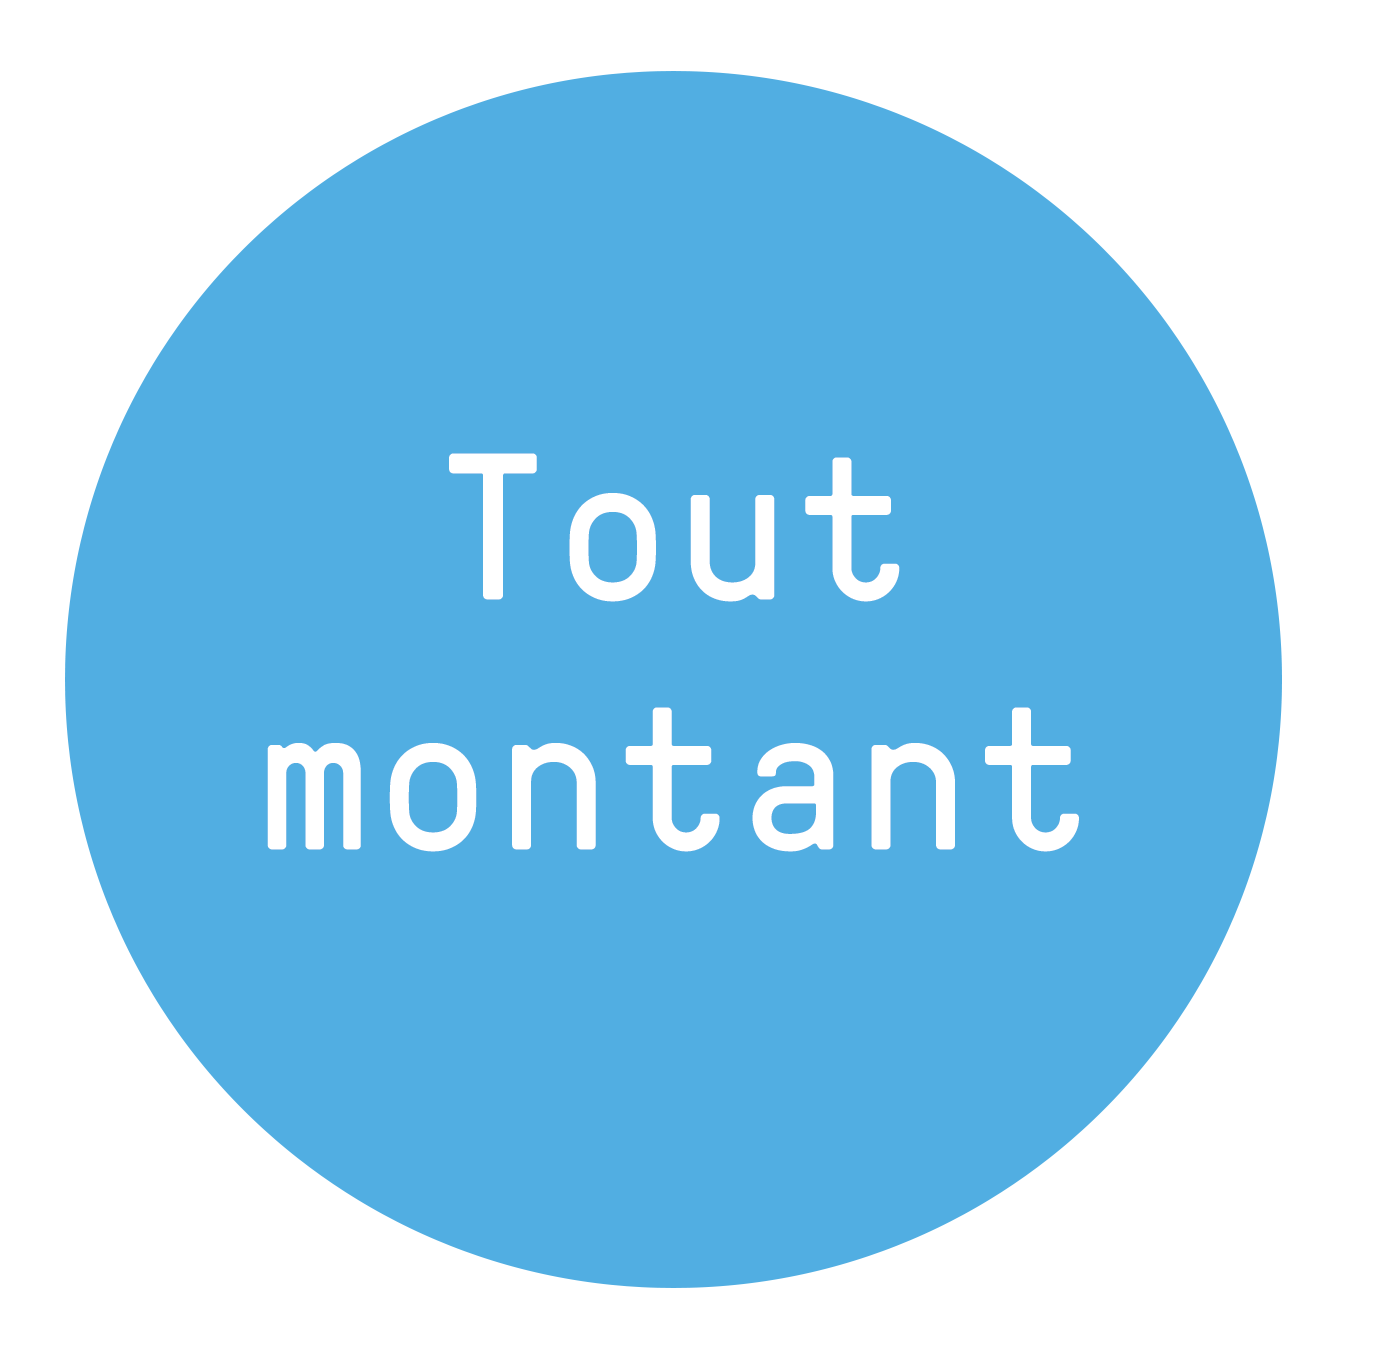
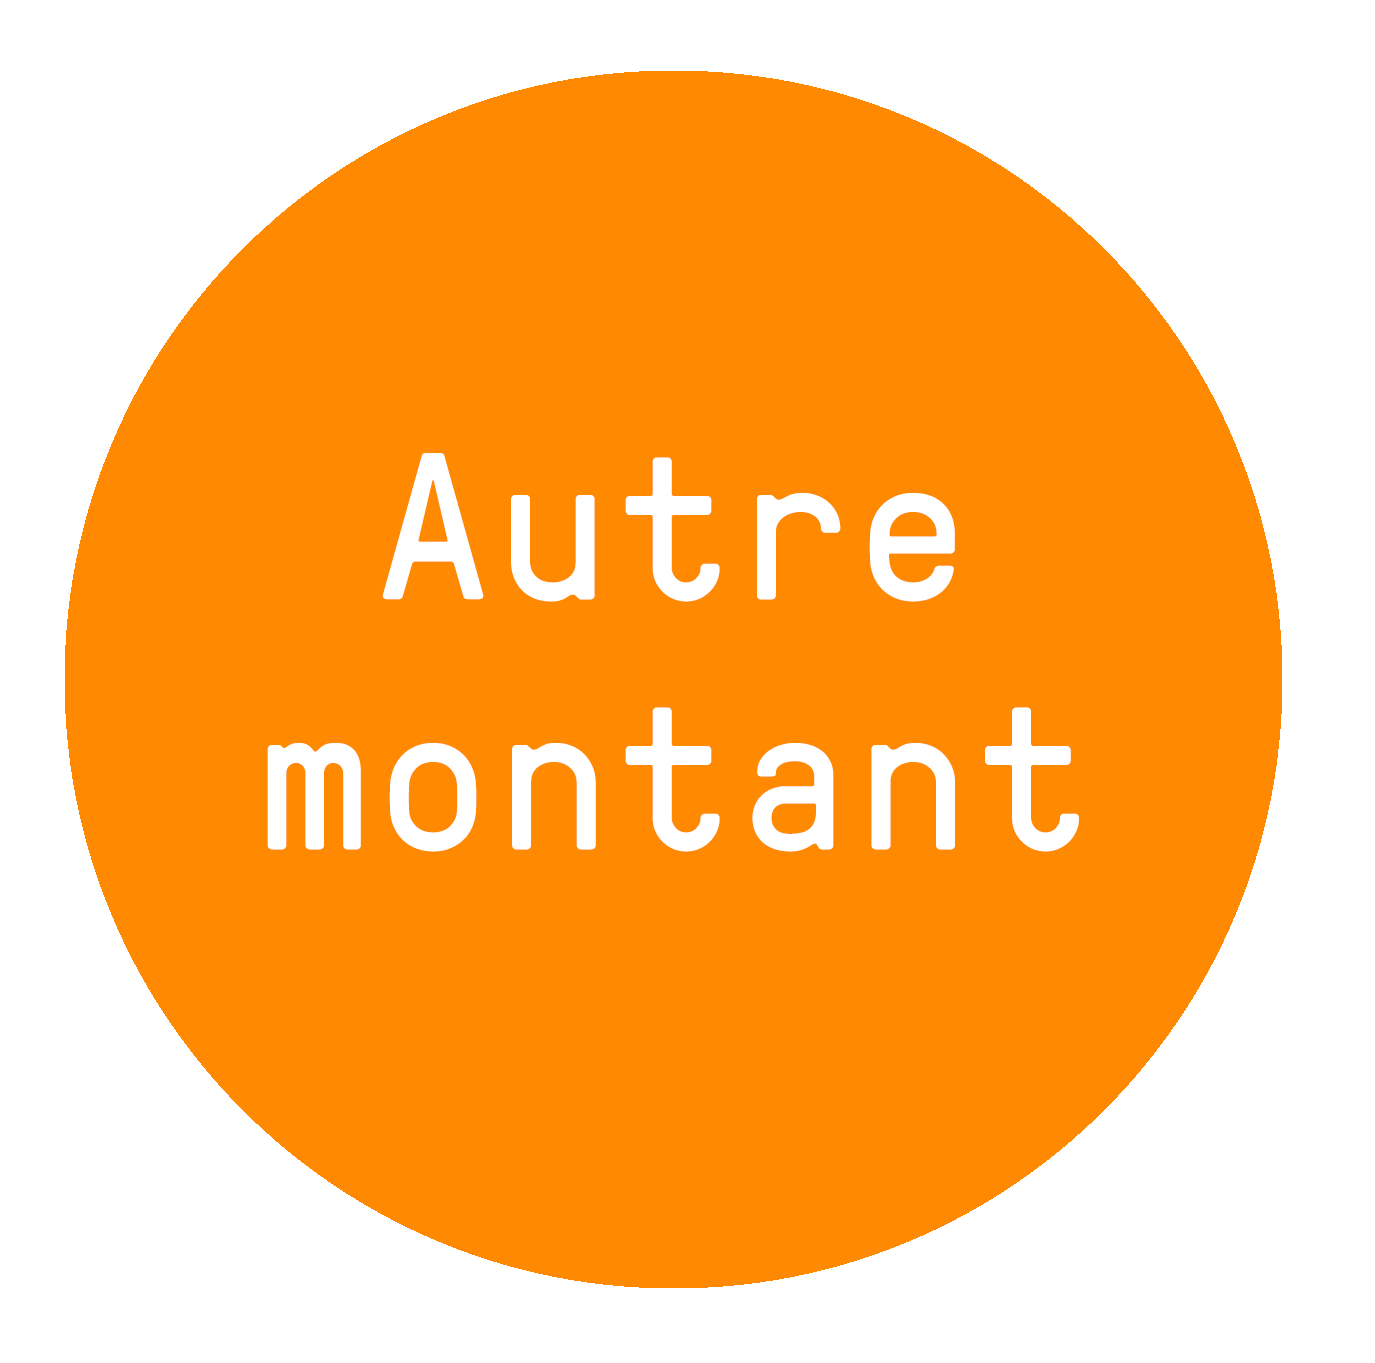
made changes to support and services

diff --git a/support.html b/support.html
@@ -88,7 +88,7 @@
         <div class="col-md-4 col-sm-4 text-center min-h-280">
           <img class="img-circle" src="img/Support-100-Student.gif" alt="suppport student 100" width="140" height="140">
           <p class="kcj-fund-custom-Support-text margin-auto">
-            GIVE ONE STUDENT 8 INSTRUCTOR-LED CODING LESSONS
+            Give one student 8 instructor-led coding lessons.
           </p>
           <form action="https://www.paypal.com/cgi-bin/webscr" method="post" target="_top" class="text-center pos-bottom">
             <input type="hidden" name="cmd" value="_s-xclick">
@@ -99,7 +99,7 @@
         <div class="col-md-4 col-sm-4 text-center min-h-280">
           <img class="img-circle" src="img/Support-250-Teacher.gif" alt="support teacher 700" width="140" height="140">
           <p class="kcj-fund-custom-Support-text margin-auto">
-            TRAIN A GROUP OF TEACHERS WITH A TEACHER TRAINING MODULE
+            Train a group of teachers with a teacher training module.
           </p>
           <form action="https://www.paypal.com/cgi-bin/webscr" method="post" target="_top" class="text-center pos-bottom">
             <input type="hidden" name="cmd" value="_s-xclick">
@@ -110,7 +110,7 @@
         <div class="col-md-4 col-sm-4 text-center min-h-280">
           <img class="img-circle" src="img/Support-2500-class.gif" alt="support class 2500" width="140" height="140">
           <p class="kcj-fund-custom-Support-text margin-auto">
-            GIVE 1-ON-1 TEACHER TRAINING AND GIVE A CLASS OF STUDENTS 8 CODING LESSONS
+            Give 1-on-1 teacher training and give a class of students 8 coding lessons.
           </p>
           <form action="https://www.paypal.com/cgi-bin/webscr" method="post" target="_top" class="text-center pos-bottom">
             <input type="hidden" name="cmd" value="_s-xclick">
@@ -120,15 +120,15 @@
         </div>
       </div>
       <div class="row">
-        <div class="col-md-4 col-sm-4 col-sm-offset-4 col-md-offset-4 text-center padding-y-m min-h-280">
-          <img class="img-circle" src="img/KCJ_Donate_Any_Amount.png" alt="suppport student 100" width="140" height="140">
-          <p class="kcj-fund-custom-Support-text margin-auto">
-            SUPPORT INSTRUCTORS IN ANY AMOUNT
+        <div class="col-md-4 col-sm-4 col-sm-offset-4 col-md-offset-4 text-center padding-top-l padding-y-m min-h-280">
+          <img class="img-circle" src="img/KCJ_Donate_Any_Amount_EN.png" alt="suppport student 100" width="140" height="140">
+          <p class="kcj-fund-custom-Support-text padding-bot-s margin-auto">
+            Choose an amount to donate
           </p>
           <form action="https://www.paypal.com/cgi-bin/webscr" method="post" target="_top">
             <input type="hidden" name="cmd" value="_s-xclick">
             <input type="hidden" name="hosted_button_id" value="7W6ARGX58VHNL">
-            <input type="submit" name="submit" class="btn btn-blue text-uppercase" value="Donate">
+            <input type="submit" name="submit" class="btn btn-orange-2 text-uppercase" value="Donate">
           </form>
         </div>
       </div>
@@ -138,7 +138,7 @@
   <section class="padding-bot-m">
     <div class="container">
       <h4 class="text-blue text-uppercase text-center">HELP A SCHOOL OR COMMUNITY CENTRE COVER THE COST FOR:</h4>
-      <ul class="text-capitalize padding-x-m text-blue padding-top-small margin-auto kcj-fund-custom-ul">
+      <ul class="padding-x-m text-blue padding-top-small padding-bot-m margin-auto kcj-fund-custom-ul">
         <li><span class="text-black">A KCJ Instructor to teach our 8 week curriculum In a school</span></li>
         <li><span class="text-black">A KCJ Instructor to train a teacher at our Teacher Training workshops</span></li>
         <li><span class="text-black">A child to attend Code Create &amp; Play workshops for free </span></li>
@@ -153,10 +153,9 @@
     </div>
   </section> -->
 
-  <section class="bg-orange">
-    <div class="container padding-big">
-      <div class="row text-center kcj-fund-custom-box margin-auto text-m">
-        <p class="text-cappitalize text-bold">Tax receipts are available for all donations $500+.<p>
+  <!-- <section class="bg-orange"> -->
+    <div class="container padding-small text-center padding-bot-l">
+        <p class="width-600 margin-auto text-center">Tax receipts are available for all donations $500+.<p>
         <p>
           Interested in sponsoring our events? Email us at:
           <a href="mailto:kcjfund@kidscodejeunesse.org" class="text-blue">kcjfund@kidscodejeunesse.org</a>
@@ -165,13 +164,16 @@
     </div>
   </section>
 
-  <section id="volunteer" class="padding-top">
-    <h3 class="text-center text-uppercase text-blue padding-small">VOLUNTEER</h3>
+
+
+  <section id="volunteer" class="padding-top-medium">
+      <section class="border-top">
+    <h2 class="text-center text-uppercase text-orange padding-top-medium padding-small">VOLUNTEER</h2>
   </section>
 
   <section>
     <div class="container container-custom padding-bot-xl">
-      <div class="row text-center padding-top-s padding-x-s">
+      <div class="row text-center padding-top-m padding-x-s">
         <h5 class="text-italic">Volunteers are at the heart of our mission to bring code into Canadian classrooms.</h5>
         <h5 class="text-italic">Empowering kids and their educators is a very rewarding and enriching experience.</h5>
       </div>
@@ -182,11 +184,11 @@
           <a class="btn btn-orange btn-orange-hover padding-small" href="volunteer.html"><strong class="text-capitalize">Volunteer Opportunities</strong></a>
         </div>
         <div class="col-sm-7 col-xs-12 margin-auto">
-          <h5 class="text-uppercase text-center text-orange padding-small">EVENT AMBASSADOR</h5>
+          <h5 class="text-uppercase text-center text-blue padding-top-medium padding-small">EVENT AMBASSADOR</h5>
           <p>Are you passionate about children learning to code? If you enjoy networking with community leaders at Meetups, tech conferences, gaming conventions, university fairs and special events then we would ask you to become a representative for Kids Code Jeunesse and Code Club Canada.
           </p>
           <br/>
-          <h5 class="text-uppercase text-center text-orange padding-small">WORKSHOP MENTOR</h5>
+          <h5 class="text-uppercase text-center text-blue padding-small">WORKSHOP MENTOR</h5>
           <p>Do you enjoy the world of education and are looking for ways to give back to the community? Helping children to learn to code in the classroom is an extremely rewarding experience, especially when the “Aha, I get it!” moments occur – both from the children and the teachers. We’re looking for volunteers to support our instructors in the classrooms, at workshops, and at teacher training events.
           </p>
           <br/>
@@ -194,7 +196,7 @@
           <p>Want to volunteer in your community? A project with Kids Code Jeunesse, Code Club Canada is a nationwide network of volunteer-led coding clubs for children aged 8-12 years old. Help us grow by volunteering at your local venue for an hour a week and help kids learn to make games, animations and websites, using Code Club Canada’s resources.
           </p> -->
           <br/>
-          <h5 class="text-uppercase text-center text-orange padding-small">VOLUNTEER REMOTELY</h5>
+          <h5 class="text-uppercase text-center text-blue padding-small">VOLUNTEER REMOTELY</h5>
           <p>Do you have skills to share and prefer working from home? We’d love your help with setting up events, fundraising, translation, sharing social media campaigns, publishing in WordPress, reviewing coding projects, testing volunteer training material and oh the list goes on.
           </p>
         </div>

diff --git a/services.html b/services.html
@@ -204,7 +204,7 @@
           </div>
           <div class="col-sm-7 col-xs-12 padding-y-m">
             <h5 class="text-uppercase text-center text-blue padding-small">teacher training</h5>
-            <p>
+            <p class="text-center padding-bot-s">
               Our team works with all levels of education, from Ministries of Education to classrooms. We train teachers in computational thinking, computer programming and Internet/Web, and help them bring code into the classroom.
             </p><br>
             <div class="fillWidth text-center">
@@ -230,7 +230,7 @@
         <div class="row">
           <div class="col-sm-7 col-xs-12 margin-auto text-center">
             <h5 class="text-uppercase text-center text-green padding-small">CODE CLUB CANADA</h5>
-            <p>Code Club is network of volunteer-led coding clubs for children. In partnership with KCJ, Code Club Canada is on a mission to put a Code Club in every community in the country.
+            <p class="text-center padding-bot-s">Code Club is network of volunteer-led coding clubs for children. In partnership with KCJ, Code Club Canada is on a mission to put a Code Club in every community in the country.
             </p>
             <p>Contact your local library, community center or school to see if they’d like to start a Code Club and then register at: <a class="text-green" target="_blank" href="http://codeclub.ca/">codeclub.ca</a>
             </p>

diff --git a/css/style.css b/css/style.css
@@ -281,6 +281,15 @@ strong {
   color: white;
 }
 
+.btn-orange-2 {
+  background-color: #ff8900;
+  color: white;
+}
+
+.btn-orange-2:hover {
+  background-color: #f99b3e;
+  color: white;
+}
 .btn-orange {
   background-color: #ff8900;
   color: white;
@@ -512,7 +521,7 @@ strong {
   padding-bottom: 10px;
 }
 .padding-y-m{
-  padding-top: 20px;
+  padding-top: 80px;
   padding-bottom: 20px;
 }
 .padding-y-l{

diff --git a/css/style2.css b/css/style2.css
@@ -262,11 +262,12 @@
 }
 .kcj-fund-custom-ul {
   text-align: left;
-  max-width: 480px;
+  max-width: 600px;
+  padding-left: 80px;
+  padding-bottom: 8px;
   list-style-type: circle;
 }
 .kcj-fund-custom-Support-text {
-  text-transform: uppercase;
   padding-top: 10px;
   max-width: 250px;
 }
